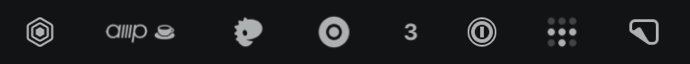
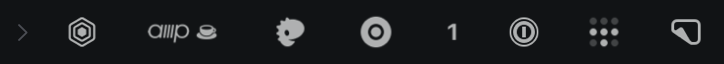
Fold Tray into a drawer behind a chevron that opens on a click and closes after a few seconds

diff --git a/sndrgrdn.tray/widget.tsx b/sndrgrdn.tray/widget.tsx
@@ -1,8 +1,11 @@
-import { Effect, Schema, host, settings } from "gary:effect";
+import { Effect, Queue, Schema, Stream, host, settings } from "gary:effect";
 
 const height = 30;
 const hidden = Schema.decodeUnknownSync(Schema.Array(Schema.String))(settings.hide ?? ["com.apple."]);
+const collapseAfter = Schema.decodeUnknownSync(Schema.Number)(settings.collapseAfter ?? 5);
+const touches = Effect.runSync(Queue.unbounded<void>());
 let tray: Gary.Tray | null = null;
+let open = false;
 
 function TrayItem({ item }: { item: Gary.TrayItem }) {
   const tooltip = item.description ?? item.title ?? item.name;
@@ -12,16 +15,33 @@ function TrayItem({ item }: { item: Gary.TrayItem }) {
 }
 
 export default {
+  effect: Stream.fromQueue(touches).pipe(
+    Stream.debounce(`${collapseAfter} seconds`),
+    Stream.runForEach(() => Effect.sync(() => (open = false))),
+  ),
+
   onTopic({ topic, value }) {
     if (topic === "tray") tray = { ...value, items: value.items.filter((item) => !hidden.some((prefix) => item.id.startsWith(prefix))) };
   },
 
   render() {
     if (tray && !tray.available) return <icon symbol="exclamationmark.triangle" color="alpha(foreground, 0.5)" tooltip={tray.reason} />;
-    return <row>{(tray?.items ?? []).map((item) => <TrayItem item={item} />)}</row>;
+    const items = tray?.items ?? [];
+    if (items.length === 0) return <row />;
+    return (
+      <row animation="smooth" duration={0.3}>
+        <icon key="drawer" symbol={open ? "chevron.right" : "chevron.left"} action="toggle" tooltip={open ? "Hide tray" : "Show tray"} fontSize={10} width={14} height={height} style="dim" hovered={{ color: "foreground" }} />
+        {open && items.map((item) => <TrayItem item={item} />)}
+      </row>
+    );
   },
 
   onAction(action) {
+    Queue.offerUnsafe(touches, undefined);
+    if (action === "toggle") {
+      open = !open;
+      return;
+    }
     const [button, id] = action.startsWith("right:") ? (["right", action.slice(6)] as const) : (["left", action] as const);
     return host.tray.press(id, { button }).pipe(Effect.catchTag("HostError", (error) => host.log(`press failed: ${error.message}`)));
   },

diff --git a/sndrgrdn.tray/README.md b/sndrgrdn.tray/README.md
@@ -1,9 +1,11 @@
 # Tray
 
-Shows the menu bar icons of other apps, such as 1Password and Tailscale, in the bar. Gary's bar covers the macOS menu bar, so these icons are otherwise out of sight.
+Shows the menu bar icons of other apps, such as 1Password and Tailscale, in a drawer in the bar. Gary's bar covers the macOS menu bar, so these icons are otherwise out of sight.
 
-![Tray widget showing the icons of Hex, Amp, Rex, OrbStack, dinky, 1Password, Tailscale and CleanShot X](screenshot.png)
+![Tray drawer open, with its chevron and the icons of Hex, Amp, Rex, OrbStack, dinky, 1Password, Tailscale and CleanShot X](screenshot.png)
 
+- Closed, the drawer shows one chevron. Clicking it shows the icons beside it, and clicking it again hides them.
+- The drawer closes by itself 5 seconds after the last click on the chevron or an icon.
 - Each icon is drawn in the theme's foreground color, whatever colors the app uses.
 - Clicking an icon opens that app's own menu, and right-clicking it opens the menu the app shows on a right click. Gary briefly reveals the macOS menu bar to open it.
 - Resting the pointer on an icon shows the app's description of it, or the app's name.
@@ -15,6 +17,8 @@ Shows the menu bar icons of other apps, such as 1Password and Tailscale, in the 
 It uses Gary's `tray` capability, which needs Accessibility to list and press the items, and Screen Recording to capture their icons. Grant both to Gary with `gary onboarding`. Without Accessibility the widget shows a warning icon that names the problem. Without Screen Recording it shows each app's name instead of its icon.
 
 ## Settings
+
+`collapseAfter` is the number of seconds the drawer stays open after the last click, 5 by default.
 
 `hide` lists the items to leave out. Each entry is the start of an item id, which is the app's bundle id followed by `#1`, `#2`, and so on. To hide dinky's workspace number and keep Apple's items out, set this in `~/.config/gary/shell.json`:
 

diff --git a/README.md b/README.md
@@ -15,7 +15,7 @@ These are Sander's plugins for [Gary](https://github.com/sndrgrdn/gary), a macOS
 - [`sndrgrdn.now-playing`](sndrgrdn.now-playing) shows the playing track in the bar, and opens a panel with the artwork, a seek bar and controls when you click it. Scrolling over it changes the volume.
 - [`sndrgrdn.system-load`](sndrgrdn.system-load) shows CPU use over the last minute as a sparkline in the bar, with the current memory use.
 - [`sndrgrdn.theme`](sndrgrdn.theme) switches between the Omarchy themes of [theme-switcher](https://github.com/sndrgrdn/theme-switcher) from a menu, and applies the theme to Gary, the wallpaper, and several apps.
-- [`sndrgrdn.tray`](sndrgrdn.tray) shows the menu bar icons of other apps in the bar, and opens an app's menu when you click its icon.
+- [`sndrgrdn.tray`](sndrgrdn.tray) shows the menu bar icons of other apps in a drawer in the bar, and opens an app's menu when you click its icon.
 - [`sndrgrdn.weather`](sndrgrdn.weather) shows the weather from [Open-Meteo](https://open-meteo.com) in the bar, and opens a 12-hour forecast when you click it. It shows Leeuwarden unless you set `latitude` and `longitude` in its settings.
 
 ## Install
